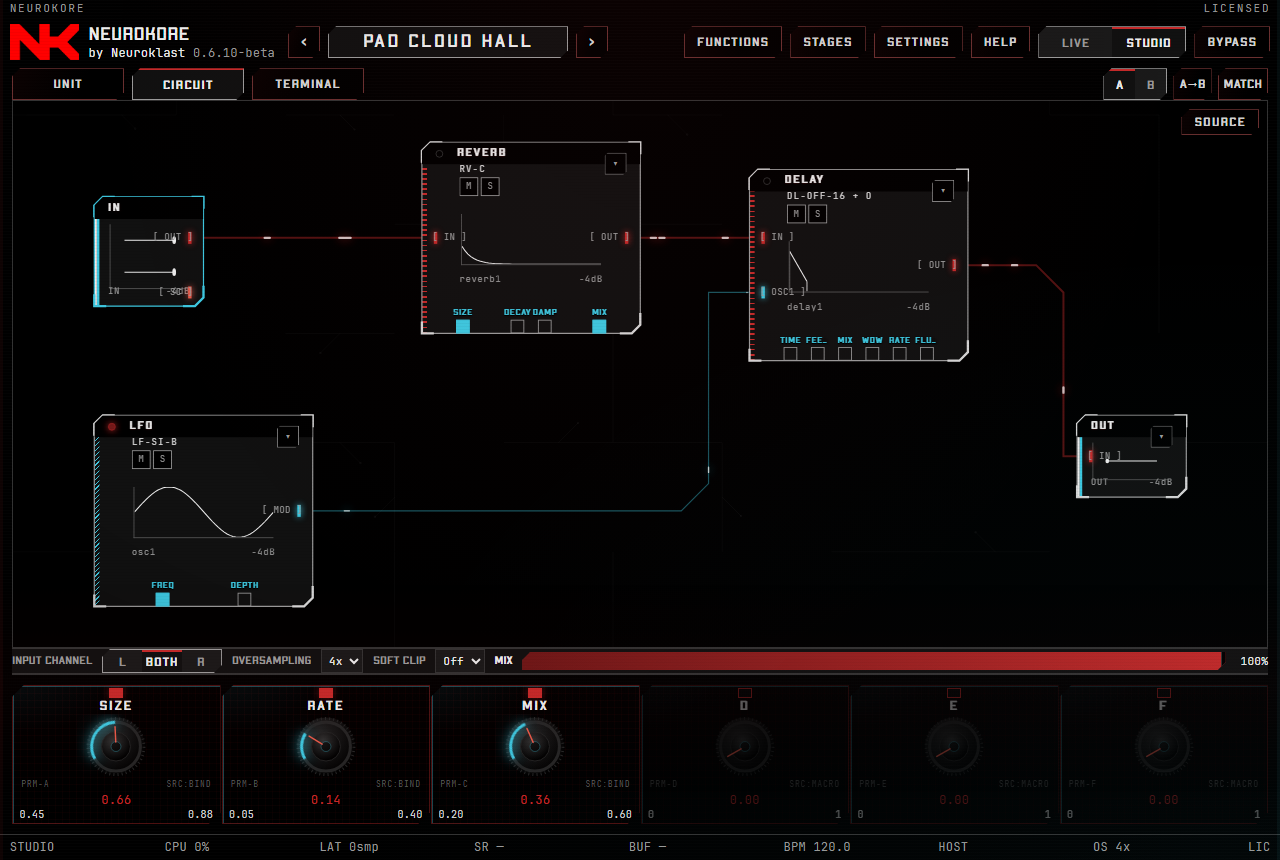
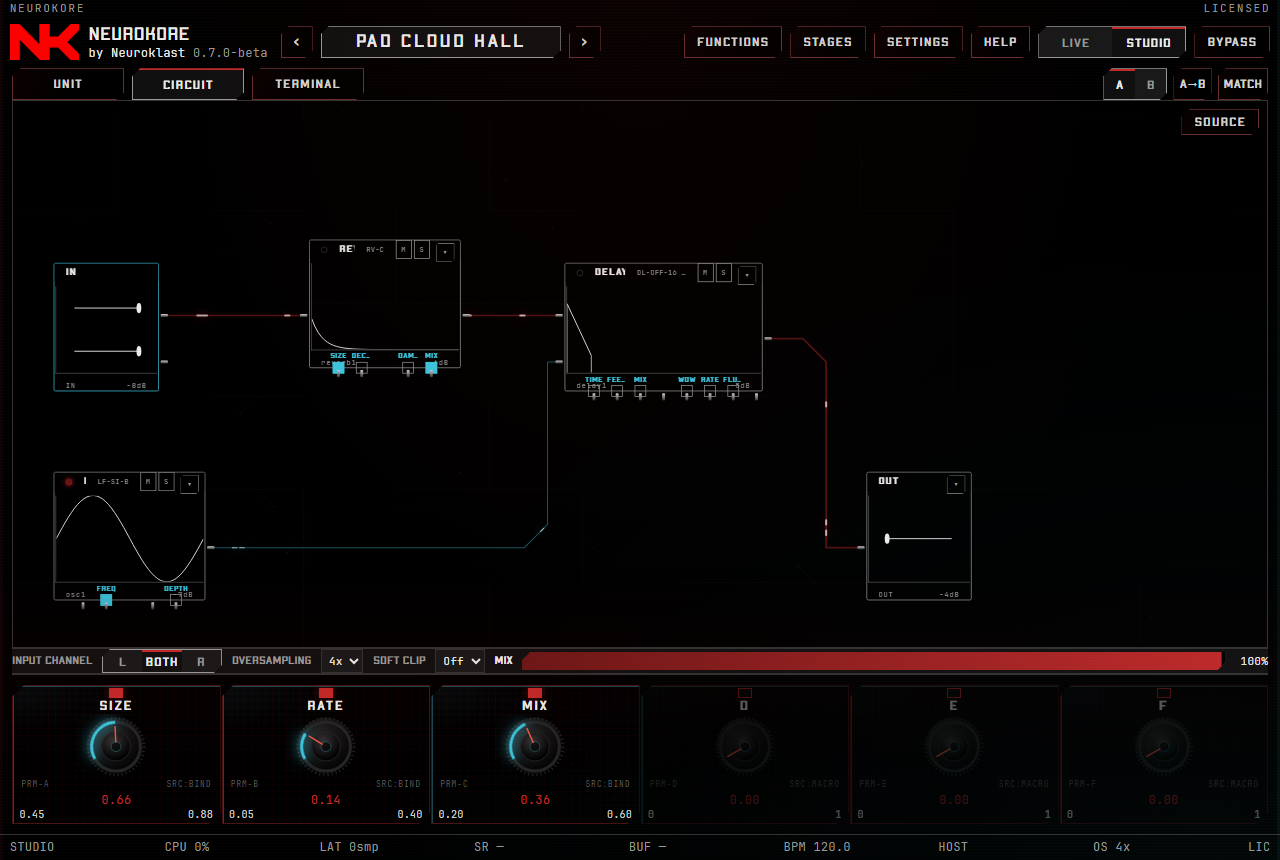
docs(circuit): record IC chips and compact wrap
Operator manual, agent contracts, and Signal Lab screenshots follow
the gunmetal IC geometry. Playwright measures unscaled chip boxes
and loads Split Authority by exact preset name.

Version stays 0.7.0-beta.

diff --git a/web/e2e/circuit-chip-zones.spec.ts b/web/e2e/circuit-chip-zones.spec.ts
@@ -37,6 +37,10 @@ async function boxOf(locator: ReturnType<Page["locator"]>): Promise<Box> {
   });
 }
 
+async function layoutSize(locator: ReturnType<Page["locator"]>): Promise<{ w: number; h: number }> {
+  return locator.evaluate((n) => ({ w: (n as HTMLElement).offsetWidth, h: (n as HTMLElement).offsetHeight }));
+}
+
 test.describe("circuit chip zones", () => {
   test("octaver mute, face, and port labels do not overlap", async ({ page }, info) => {
     test.skip(info.project.name !== "chromium-1x");
@@ -58,19 +62,41 @@ test.describe("circuit chip zones", () => {
     const msBox = await boxOf(ms);
     const faceBox = await boxOf(face);
     const bandBox = await boxOf(titleBand);
+    const chipSize = await layoutSize(chip);
+    const faceSize = await layoutSize(face);
+    expect(chipSize.w).toBeGreaterThanOrEqual(200);
+    expect(chipSize.h).toBeGreaterThanOrEqual(180);
+    expect(faceSize.w).toBeGreaterThanOrEqual(180);
+    expect(faceSize.h).toBeGreaterThanOrEqual(100);
     expect(overlap(msBox, faceBox), "mute/solo vs face").toBe(false);
     expect(contained(msBox, bandBox), "mute/solo inside title band").toBe(true);
+    await page.screenshot({ path: "test-results/circuit-ic-drone-low-bed.png", fullPage: true });
+
+    const pins = chip.locator(".nk-port");
+    const pinCount = await pins.count();
+    expect(pinCount).toBeGreaterThan(0);
+    const seen = new Set<string>();
+    for (let i = 0; i < pinCount; i += 1) {
+      const pin = await boxOf(pins.nth(i));
+      const key = `${Math.round(pin.x)}:${Math.round(pin.y)}`;
+      expect(seen.has(key), `pin ${i} collides at ${key}`).toBe(false);
+      seen.add(key);
+    }
 
     const caps = chip.locator(".nk-port-cap");
     const n = await caps.count();
     expect(n).toBeGreaterThan(0);
     for (let i = 0; i < n; i += 1) {
       const capEl = caps.nth(i);
+      const vis = await capEl.evaluate((el) => getComputedStyle(el).visibility);
+      if (vis === "hidden") {
+        continue;
+      }
       const cap = await boxOf(capEl);
       if (cap.w < 2 || cap.h < 2) {
         continue;
       }
-      const jack = await capEl.evaluate((n) => (n.parentElement?.getAttribute("data-port-id") ?? n.textContent ?? `${i}`));
+      const jack = await capEl.evaluate((el) => (el.parentElement?.getAttribute("data-port-id") ?? el.textContent ?? `${i}`));
       expect(overlap(cap, msBox), `${jack} vs mute/solo`).toBe(false);
       expect(overlap(cap, faceBox), `${jack} vs face`).toBe(false);
     }

diff --git a/web/e2e/signal-lab-chrome.spec.ts b/web/e2e/signal-lab-chrome.spec.ts
@@ -9,7 +9,7 @@ async function loadPreset(page: Page, name: string) {
   await page.locator(".nk-preset-now").click();
   await page.locator(".nk-preset-browser").waitFor();
   await page.getByPlaceholder("Search presets, tags, effects...").fill(name);
-  const row = page.locator(".nk-preset-row", { hasText: name });
+  const row = page.locator(`.nk-preset-row[data-name="${name}"]`);
   await expect(row).toBeVisible();
   await row.dblclick();
   await page.locator(".nk-preset-browser").waitFor({ state: "hidden" }).catch(() => undefined);
@@ -100,6 +100,19 @@ test.describe("signal lab shared module chrome", () => {
     await expect(hallReverb).toHaveAttribute("data-face", "reverb");
     await expect(hallReverb.locator("[data-glyph='decay']")).toBeVisible();
     await page.screenshot({ path: path.join(shotDir, "circuit-pad-cloud-hall.png"), fullPage: true });
+
+    await loadPreset(page, "Split Authority");
+    await page.locator("[data-node-id='xover1']").waitFor();
+    await waitLayoutIdle(page);
+    const xover = page.locator("[data-node-id='xover1']");
+    await expect(xover).toBeVisible();
+    const xoverBox = await xover.evaluate((n) => ({
+      w: (n as HTMLElement).offsetWidth,
+      h: (n as HTMLElement).offsetHeight,
+    }));
+    expect(xoverBox.w).toBeGreaterThanOrEqual(200);
+    expect(xoverBox.h).toBeGreaterThanOrEqual(200);
+    await page.screenshot({ path: path.join(shotDir, "circuit-split-authority.png"), fullPage: true });
   });
 
   test("delay LFO and dynamics faces paint calculated glyphs", async ({ page }, info) => {
@@ -264,7 +277,7 @@ test.describe("signal lab shared module chrome", () => {
     await clickChipHeader(page, filter);
     await expect(filter.locator(".nk-chip-typecode")).toHaveCSS("visibility", "visible");
     await expect(filter.locator(".nk-chip-foot")).toHaveCSS("visibility", "visible");
-    await expect(filter.locator(".nk-port-cap").first()).toHaveCSS("visibility", "visible");
+    await expect(filter.locator(".nk-port-cap").first()).toHaveCSS("visibility", "hidden");
     await expect(reverb.locator(".nk-chip-typecode")).toHaveCSS("visibility", "hidden");
     await expect(reverb.locator(".nk-port-cap").first()).toHaveCSS("visibility", "hidden");
   });

diff --git a/docs/manual/NEUROKORE.md b/docs/manual/NEUROKORE.md
@@ -97,7 +97,7 @@ Click the preset name. Categories stay on the left, names in the middle, details
 The board is the same sound as Unit and Terminal. **Source** opens a side panel with that chip’s definition (same chip id as the selection) and its real meters: peak and RMS from that chip’s own tap, with the signal source named. A drive chip has no waveform tap — the panel says so instead of drawing the plugin output. Clicking a chip does not start Edit. **Edit Source** opens the same editor as Terminal (caret and scroll survive **Open Full Terminal**); **Apply** compiles it; **Discard** restores the last saved graph. Drag the seam to resize Source (360–420 px beside the board, or 160–220 px when it sits under the board). Opening Source does not pan the board or rewrite cables. Factory **Pad Cloud Hall** is a long hall plus slow chorus; reverb decay is 0–1 (the engine’s hall time).
 
 Cables
-- Drag a chip by its body. Contacts sit on the left and right frame, equally spaced. Drag from an output (right) to an input (left).
+- Drag a chip by its body. Audio contacts sit on the left (in) and right (out) as metal pins; parameter and modulation contacts sit on the bottom. Drag from an output (right) to an input (left).
 - While you drag, the cable is a free curve and snaps to a contact from 30 px away. After you drop, the board etches a PCB path (right angles, 45° corners). A wrap to the next row rides the gap between rows, not around the whole board. Packets travel source → dest along that path. Alt+click a contact to cut. Dropping on a busy input replaces the old cable.
 - A stereo run is two parallel packet lanes (left cyan, right red) until a split block. After Mid/Side split the mid lane stays the main stroke and the side lane peels off at 45°. Beads sit on that channel’s real signal peaks. Speed follows RMS; brightness follows the peak. Speed is in real time (30 or 60 fps is the same travel). Below −60 dB the stream freezes. Pan the board and the tubes move with it, glow included. The tubes start when you open Circuit, not only after you resize the window. A clip (above 0 dBFS) flashes the tube and splits it red/cyan. The peak lamp in the title stays dark until that chip clips, then it glows red. A yellow outlined warning triangle (with a bang) and a dB reading sit just outside the output that actually clips. Send and bus tubes follow the input, because those chips are taps — they have no own meter.
 - Click an audio cable to insert a module on that exact connection when the resulting source → new block → destination routing can be verified. An unsupported branch shows an explanation and leaves the graph unchanged. Right-click empty board to add an unconnected parked module. Right-click a chip for Insert after / Inspect / Delete. Opening or closing that menu does not pan or zoom the board. A layout that finishes later leaves the view where you put it. The wheel over the Add list scrolls the list. Delete or Backspace removes the selected chip. Mute and solo sit in the title band and do not remove chips or reroute cables. Port labels stay on the rails; the function plot stays in its own well. Packets run source → dest (IN toward OUT) and never out the back of OUT. Click selects a chip and drag moves it. Double-click or use its chevron to open the animated Inspect overlay without resizing the board. Inspect TAP is Plugin input, Plugin output, or No waveform tap — a drive chip has no invented waveform. LEVEL is that chip’s own peak and RMS. A Circuit selection highlights the same block in Terminal; a Terminal caret on a block line selects that chip. The board does not pan for that. Middle mouse or Space + left-drag pans; the wheel zooms. Drag a knob’s bind jack onto a highlighted chip parameter to connect it. Time, delay, and LFO fields switch VALUE and NOTE (bars from 8/1 down to 1/16, only lengths that fit that field). OUT is the last chip, right of the hull.
@@ -110,13 +110,13 @@ IN and OUT
 - **OUT** is the mix back to the host. Named buses (a Send row) land on their own west mix jacks — `main`, then each bus — not a leftover `in`. Expand it (chevron or right-click Details) for **gain** (−24 to +12 dB). Gain is not a slider on the closed tile.
 
 Blocks
-- A closed chip is a shared frame: lamp, name, type code, mute/solo, instance-id footer. Idle plates sit on the surface colour so they lift off the board. Select or hover raises the plate; dragging a knob bind onto it opens the interaction well. Filter and EQ draw a calculated frequency response from type, cutoff/freq, resonance/Q, and EQ gain. Reverb draws a calculated decay envelope from size, decay, and mix (the engine clamps decay to 0.05–0.95). Delay draws echo taps from time, sync, feedback, and mix. LFO draws one cycle of its shape and depth (the header lamp still pulses at the live rate). Comp, gate, and limit draw a static input/output curve from threshold, ratio, knee, makeup, mix, ceiling, and range. Envelope draws a calculated attack/hold/release curve; the header lamp still fills with the live level. Octaver, pitch, and vocoder draw interval stems from mix, sub/up, semitones, or band count. Drive draws a transfer curve from a named shaper (softclip, tube, diode, hardclip, fold, bitcrush); unknown formulas stay a straight line. Those plots are not a live tap, a measured IR, or gain reduction. Routing draws a split/join map from its ports (width is two lanes). Phaser, flanger, and chorus draw one LFO cycle (chorus averages voices; flanger invert flips the sign). Cabinet draws dry/wet mix; the IR file name is the host slot when one is loaded. IN and OUT draw a jack schematic of their contacts. Utility draws gain and pan marks. Bound letters follow the live knob. Delay and LFO sync notes use the host tempo (120 BPM until the host reports one). EQ biquads use the host sample rate (48 kHz until the host reports one). Mixed formulas stay on the chip default. Zoomed far out, type codes, footers, and port labels hide except on the selected chip; the face plot stays a thick family glyph without the scale grid. Audio, modulator (LFO/env), and I/O families carry a west hatch so the job family is readable without reciting the title. Contacts are labelled `[ IN ]` `[ OUT ]` `[ MID ]` `[ SIDE ]`. The footer line is the instance id and that chip’s own tap: live dB when the signal is audible, still at or below −60 dBFS, and — when the chip has no meter. It is not a fake serial — it sits above the south parameter sockets. The chevron opens Inspect (every parameter, sized to the list). Time fields (seconds, milliseconds, hertz) switch VALUE and NOTE. NOTE writes the matching number at the current tempo. Dragging a knob over the chip opens the bind list; south labels hide while that list is open.
+- A closed chip is a gunmetal IC: lamp, name, type code, mute/solo, instance-id footer, and metal pins on the jack faces. Idle plates stay dark. Select or hover raises the plate; dragging a knob bind onto it opens the interaction well. Filter and EQ draw a calculated frequency response from type, cutoff/freq, resonance/Q, and EQ gain. Reverb draws a calculated decay envelope from size, decay, and mix (the engine clamps decay to 0.05–0.95). Delay draws echo taps from time, sync, feedback, and mix. LFO draws one cycle of its shape and depth (the header lamp still pulses at the live rate). Comp, gate, and limit draw a static input/output curve from threshold, ratio, knee, makeup, mix, ceiling, and range. Envelope draws a calculated attack/hold/release curve; the header lamp still fills with the live level. Octaver, pitch, and vocoder draw interval stems from mix, sub/up, semitones, or band count. Drive draws a transfer curve from a named shaper (softclip, tube, diode, hardclip, fold, bitcrush); unknown formulas stay a straight line. Those plots are not a live tap, a measured IR, or gain reduction. Routing draws a split/join map from its ports (width is two lanes). Phaser, flanger, and chorus draw one LFO cycle (chorus averages voices; flanger invert flips the sign). Cabinet draws dry/wet mix; the IR file name is the host slot when one is loaded. IN and OUT draw a jack schematic of their contacts. Utility draws gain and pan marks. Bound letters follow the live knob. Delay and LFO sync notes use the host tempo (120 BPM until the host reports one). EQ biquads use the host sample rate (48 kHz until the host reports one). Mixed formulas stay on the chip default. Zoomed far out, type codes and footers hide except on the selected chip; the face plot stays a thick family glyph without the scale grid. Contacts keep their full name on the tooltip and in Inspect (`[ IN ]` `[ OUT ]` `[ MID ]` `[ SIDE ]`). Pin labels stay off so they never collide. The footer line is the instance id and that chip’s own tap: live dB when the signal is audible, still at or below −60 dBFS, and — when the chip has no meter. It is not a fake serial — it sits above the south parameter sockets. The chevron opens Inspect (every parameter, sized to the list). Time fields (seconds, milliseconds, hertz) switch VALUE and NOTE. NOTE writes the matching number at the current tempo. Dragging a knob over the chip opens the bind list; south labels hide while that list is open.
 - Envelope: the lamp fills with the live level. Open it to pick **source** (`in` or `sidechain`) and **unit** (`lin` 0–1, or `db` for a compressor built from env + a formula stage).
 - Phaser is a real allpass cascade (rate, depth, center, feedback, mix, stages). Flanger is a short delay comb; invert is through-zero. Chorus is two to four slow voices on one longer delay (rate, depth, delay, voices, mix, width) — not the flanger, and not an amplitude wobble. Delay time follows a formula every sample (`time = 180 + osc1 * 8`). Wow 0 leaves that time still. Wow 1 wanders it by ±8 ms. Rate is that speed, default 0.65 Hz. Flutter 1 is ±2 ms at 8 Hz, on the same read. Bitcrush quantizes and then lowpasses. The `bitcrush()` formula does not. Tempo sync still slews, so a BPM jump does not click. Comp is one envelope: `detector` is peak or rms, `mix` is parallel (1 = compressed, 0 = dry), attack can go under 1 ms. Knee, makeup, and the detector high-pass are on the chip. De-esser reduces the sibilance band when that band is loud relative to the whole signal, not when a high-pass simply crosses a level. Listen plays that band. Transient is two envelopes on the level: fast minus slow is the hit. Attack turns that difference up or down. Sustain turns the body up or down. It is not a compressor. Utility is linear gain in dB, a balance pan (center leaves stereo alone), and a polarity flip. It does not saturate. The reverb tank runs at the host sample rate, not at 2×/4×/8× oversampling. Comp `lookahead` 0 is immediate. A lookahead delays the audio, the detector hears ahead, and the host gets that delay. Limit `lookahead` 0 is the fast peak mode. A lookahead (ms) delays the signal and is reported to the host like pitch and cabinet latency. The output true-peak ceiling stays the safety net. Filter **allpass** is one phaser stage if you want to stack them yourself. Filter resonance is 0.1 to 4. A moving cutoff holds it at 2.2 so the filter does not scream.
 - Loading a preset closes open details, lays the chain out left to right, and fits it above the mix bar. Cables meet the jacks of that layout; they do not keep the previous sound’s paths.
 
 Arrange and Compact
-- Right-click empty board → Arrange (one row, left to right) or Compact (wrap to the window, still left to right — never a snake). The wrap cable runs between the rows, not around the whole board. Compact keeps a Send bus on its own row under the main chain, parks OUT at the right, and lines each serial hop on a row so IN → processors → OUT is a straight run when the chain fits one row. A short factory chain (Drone Low Bed) fits one row in the Circuit pane: IN is the unique leftmost chip. DSP plates are 128 px wide, IN/OUT 96 px, with two grid cells of air. Ctrl/Cmd+Shift+A Arrange, Shift+A Compact. Loading a preset on Circuit shows a layout progress bar until Compact/Arrange finishes, so the board does not freeze on a half-laid graph. Loading a preset arranges, and wraps only if the chain is wider than the window. Dragging a chip stops auto-layout; Arrange or Compact still run when you ask.
+- Right-click empty board → Arrange (one row, left to right) or Compact (wrap to the window, still left to right — never a snake). The wrap cable runs between the rows, not around the whole board. Compact keeps a Send bus on its own row under the main chain, parks OUT at the right, and lines each serial hop on a row so IN → processors → OUT is a straight run when the chain fits one row. A short factory chain (Drone Low Bed) stays left to right and wraps if the IC plates are wider than the pane: IN is the unique top-left chip. DSP plates are about 224×192 px, IN/OUT 160×192 px, with four grid cells of neighbour air. Compact wraps rather than shrinking a chip or a gutter to force one row. Ctrl/Cmd+Shift+A Arrange, Shift+A Compact. Loading a preset on Circuit shows a layout progress bar until Compact/Arrange finishes, so the board does not freeze on a half-laid graph. Loading a preset arranges, and wraps only if the chain is wider than the window. Dragging a chip stops auto-layout; Arrange or Compact still run when you ask.
 
 Expand a chip for hidden parameters. The chip size does not jump.
 

diff --git a/docs/LESSONS_LEARNED.md b/docs/LESSONS_LEARNED.md
@@ -35,6 +35,7 @@ Session diary: `docs/archive/LESSONS_SESSION_LOG.md`. Add a rule here only if it
 
 ## Circuit
 
+- Closed Circuit nodes are IC plates. Size comes from header, pin pitch, and jack counts (`chipBox` / `chipMetrics`). Never shrink `CHIP_W` so a serial chain fits one row; wrap and pan/zoom instead. DOM body, SVG frame, ports, and layout share those numbers — no CSS `left: 4px` jack offset. Idle pins are metal; family is `data-kind` without a decorative hatch.
 - Terminal↔Circuit identity is `focusNodeId` plus a tokenizer source map (`tokenizeLine` on `id :` heads). Do not regex the script for caret mapping, do not `setDraftScript` / enter Edit from that highlight, and do not `fitCamera` on caret motion. Inspect TAP is `nodeProbe`: IN/OUT only; DSP chips are No waveform tap. Selected meters are `nodeMeter`: peak/RMS from that chip’s clips, never plugin.out under a DSP name. Send/bus do not steal IN. One patch document (active vs draft + revisions) and one selection (nodes, param, origin, intent) are the target. `draftEditing` lives in `astStore` so Terminal unmount cannot drop an unapplied draft. A preset/host echo must not replace that draft. Selection is `publishSelection` (nodes, param, origin, intent). Do not keep a second Circuit `useState` list or prefix-guess board ids. Caret on a comment does not invent a node. Intent `mark` does not pan or enter Edit. Source inspector geometry is `SOURCE_INSPECTOR` on the 1280×860 stage. Circuit Edit Source and Terminal Edit share `PATCH_MODEL_URI` plus caret/scroll; Monaco stays lazy and is not mounted in a hidden Circuit pane. Source resize is the seam handle (`inspectorWidthAt` / `inspectorHeightAt`); `setWidth` in the store is not enough without a hit target. Pane size from that split still must not `fitCamera`. Pad Cloud Hall Apply is a store walk (select, draft, Apply, Undo, CONFLICT), not a source-string test. Factory reverb `decay` must be 0–1; the engine clamps 0.05–0.95. Pane resize from that split must not `fitCamera` or Compact. Compile replies are keyed by `txId` then script; do not apply a stale fail onto a newer draft. Ast events carry the same `txId`/`baseRevision`; a late graph must not replace a newer one. A dirty draft stores `draftBaseRevision`. Preset/host that keeps it is `conflict`; Apply must not publish that draft onto the new active patch. setArg history coalesces one undo. Demo connect must `publishScript`, not a phantom `ast.edges` patch. `paintFocus` reads the selection set; a selected chip expands to incident edges and neighbors like hover. Family is `data-kind` (audio/mod/io) as a west hatch, not a title recolor. Source inspector `data-chip-id` is the primary selection. Circuit Edit Source and Terminal Edit share one Monaco model URI plus caret/scroll session. Monaco stays lazy; the inspector unmounts the editor while Circuit is hidden so it is not born inside display:none.
 - Circuit / Terminal Signal Laboratory contracts live in `docs/agents/signal-lab.md`. Chip faces are a `faceKindForType` registry, not a `switch` in `BoardChip`. Semantic zoom changes paint, not jack locals. `patchStructure(ast)` is the Terminal navigator model from the same hydrated board; do not store a second graph.
 - Circuit is headless (`boardStore` + DOM chips + one cable canvas). Do not wire AssembleView back to React Flow. Layout adapters use local `flowTypes`, not `@xyflow/react`. Camera pan/zoom writes the CSS matrix and canvas `camRef` in the pointer event; `setCamera` is pointerup / fit, never every move. Chip drag is the same: `chipDragRef` + CSS translate until pointerup. Hover/DoF is `data-focus` on the DOM, not `useState`. Cable geometry (chamfer/offset) is stamped; the frame loop only moves ink. Each lane integrates its own RMS px/sec (`streamAdvance`); do not share one `now` offset across tubes or reset phase on silence. Packets are an aperiodic train (`C(k) + travel`), not a repeating dash — a regular lattice aliases and looks reversed. Per-frame travel stays under half the smallest gap. Mute is a script overlay — do not replace the visual AST, do not flip `origin` to canvas, and do not hydrate the board (keepXy must keep stored routes). Native parse drops `# nk-ms` chips from JSON; a second echo of the same muted script is still overlay (`muteOverlayOnly` includes identical strings). Do not `resetMuteSolo` on host echo. Live/Studio must not `setSize` the editor — only a scale-percent change may. Shipping VST3 serves the embedded zip (`wantDiskWebAssets` off unless `NEUROKORE_WEB_DISK=1`). Do not `remove_directory` `Contents/resources` on Windows: that path is `Contents/Resources` (moduleinfo). `layoutBoard` posts to the existing layout worker; timeout **or onerror** falls back to `runLayout` — never reject Compact/Arrange. Do not stick `workerDead`. Circuit rAF does not run on Unit or a 0-size pane (`circuitPaintActive`). Bind dest jacks are `bindJackWorld`, not `getBoundingClientRect`.
@@ -55,7 +56,7 @@ Session diary: `docs/archive/LESSONS_SESSION_LOG.md`. Add a rule here only if it
 - Send is a tap, not a DSP source. Cables are IN → bus → send → chain. Never send back into the bus header. OUT mix-ins are `main` plus each named bus, never a leftover `in`. Compact packs each rail as its own row; do not DFS-snake a send graph. Plasma on send/bus follows IN — those chips have no tap.
 - User chip xy is owned by the board until Arrange or a new graph. A host echo is not a second owner.
 - Closed DSP plate is identity + one lamp. No TRG/barcode/grip/fake jacks. Expand overlay hides the south bind rail. Filter/EQ faces are calculated from ChipSpec args (SVF analog / EQ cookbook). Reverb faces use the engine RT60 proxy and clamp decay to 0.05–0.95; do not rewrite factory `decay = 2.6`. Formula args are not eval'd.
-- Compact wrap: `finishHalo` makes the cell around a chip solid. CHIP_AIR_Y (one cell) is not a cable. Row gap is WRAP_AIR = pad + rail + pad. Wrap edges ride `wrapRailRoute` on that rail, never A* around the hull.
+- Compact wrap: `finishHalo` makes the cell around a chip solid. CHIP_AIR_Y (one cell) is not a cable. Row gap is WRAP_AIR = pad + two-cell rail + pad. Wrap edges ride `wrapRailRoute` on that rail, never A* around the hull. Compact rows use fat air (`CHIP_AIR_X * 2`). A 2-cell gutter lands a forced-east stub on the next net's inbound runway. A* may leave north/south when east is solid or a foreign lane.
 - Circuit selection is `data-selected="on"` on `.nk-board-chip`. Delete/Backspace is plugin-owned only while that is set. Do not look for React Flow `.selected`. Empty-board deselect hit-tests `elementFromPoint`; pointer capture retargets `click` onto `.nk-board`, which is not a chip.
 - Stereo bus is one stored route, painted as two packet lanes ±4 px on the normal. Do not A* twice. The host tap is `{ rmsL, rmsR, peakL, peakR }`. RMS fills and drives the packets; peak flashes them; peak > 1.0 is the glitch. Split chips have no combined `out`. Mid/Side is not L/R: Mid keeps the main stroke, Side breaks 45° with a short dash. Port labels are `[ MID ]`. Microtext is `node.id` / typecode / peak dB — never a fake UUID.
 - Side jacks use fork pitch only when `(n-1)*FORK` fits **under the title and above the foot**. On a short IO tile that is one-cell pitch around the body midline. Do not park IN `out` on the hazard band or `sc` on the footer.

diff --git a/docs/agents/ui-ux.md b/docs/agents/ui-ux.md
@@ -8,7 +8,7 @@ Source of truth for Circuit is the **script**. The board is a headless graph (`b
 |---|---|
 | Chip drag | Live xy in `chipDragRef` + CSS translate; store + A* on `pointerup`, snap 32. Do not `moveNode` on pointermove |
 | Camera | Live `{tx,ty,scale}` in a ref + CSS matrix on `.nk-board-world` and the canvas `camRef`. Zustand commits on pointerup / after fit. Do not subscribe React to `camera` |
-| Ports | Flush contact on the frame; 24 px hit; 30 px magnet. Equal pitch, inside AABB |
+| Ports | IC pin on the AABB edge; gunmetal body inset `PIN_LEAD`. 24 px hit; 30 px magnet. Equal pitch; jack centres unique |
 | Hover focus | Pane carries `data-dof`, chips `data-focus`. Selected or hovered chip + its neighbours + their cables stay sharp, rest is soft. Zoom (scale ≠ 1) must not disable the plane |
 | Drag cable | Cubic bezier, east/west normals. No A* while the pointer is down |
 | After drop | Layout worker runs ELK + A*. Canvas paints cached `edge.route` polylines; rAF only advances the aperiodic packet train. Pause the canvas when Circuit is hidden |
@@ -36,10 +36,10 @@ LFO / env live on a row *below* IN, never on IN’s cell.
 | Side occupancy is per face | South param ports counted in west `count`, `graphToLayout.ins` including south, or a param jack overwriting a side socket that shares its id. 1-in-1-out side jacks off the box midline |
 | 16 px grid | Jack or chip origin not a multiple of 16 |
 | Chips do not overlap | `nodeRectsClash` after tidy |
-| ≥ 2 grids air beside, 1 grid above/below | Two chips closer than `CHIP_AIR_X` (64) when stacked in a row, or `CHIP_AIR_Y` (32) when stacked in a column |
+| ≥ 2 grids air beside, 1 grid above/below | Two chips closer than `CHIP_AIR_X` (64) when stacked in a row, or `CHIP_AIR_Y` (32) when stacked in a column. Compact *packs* at fat air (`CHIP_AIR_X * 2`) and wraps; it does not squeeze a 2-cell gutter to keep a row |
 | Dest stub is 32 px east, never a U-turn | Any audio path point with `x > dest jack x`, or a west-then-east jog at the IN jack |
 | IN/OUT body ≥ 96 so the jack is centered | IO chip shorter than 96, or a **single** side jack (OUT in, DSP in/out) not on that chip’s vertical midline. IN `out`/`sc` sit in the **body band** (below `TITLE_H`, above the foot), one-cell pitch around that midline — never in the hazard title or on the footer |
-| Chip paint ⊂ AABB | Handle centres, titles, captions, lamps, or a face widget sit outside `chipBox`. Closed IN/OUT have no range/select. Text ellipsizes in the label column. Closed DSP: no TRG/barcode/grip/fake jacks. Title, side rails, face well, and south param rail are exclusive (`chipZones`); mute/solo lives in the title band |
+| Chip paint ⊂ AABB | Handle centres, titles, captions, lamps, or a face widget sit outside `chipBox`. Closed IN/OUT have no range/select. Port names are tooltips, not truncated caps. Closed DSP: no TRG/barcode/grip/fake jacks. Title, pin rails, face well, and south foot are exclusive (`chipZones`); mute/solo lives in the title band |
 | IN sources east only | Any target jack on IN. `sc` is an east **output** (host sidechain). OUT targets west only; gain is overlay-only |
 | Camera fits the chain | After preset/Arrange the pane still shows the previous graph, or board `minZoom` ≠ `fitView` minZoom |
 | Overlay vs south rail | Open detail still paints south bind captions under the overlay |
@@ -63,7 +63,7 @@ LFO / env live on a row *below* IN, never on IN’s cell.
 - Overlays size to their content (`height: auto`). Wide explorers fill the host (`height: 100%`, `min-height: 0`) and never paint outside the window. The list pane scrolls. Inspect time fields (s / ms / Hz) switch VALUE and NOTE (8/1…1/16 in range).
 - One overlay at a time. Double-click a node → inspect **all** editable keys.
 - Circuit click selects and left-drag moves a chip without opening Inspect. The chevron, double-click, or Inspect context action opens the animated overlay without changing the board width. Ctrl/Cmd+A selects all, Ctrl/Cmd+Shift+A arranges. Empty-pane left-drag selects; middle mouse or Space+left-drag pans; the wheel zooms. Right-click opens context actions and never initiates a knob or port drag. A context menu is pane-local overlay: it never writes `camera`. A late layout reply does not `fitCamera` while that overlay is open or after the user has panned or zoomed. Drag a knob bind jack onto a highlighted chip parameter to connect it.
-- Circuit and Terminal share `publishSelection`. A Terminal caret on an `id :` head (tokenizer map) selects that chip; a Circuit selection highlights the matching Terminal lines. Do not enter Edit, rewrite the draft, or pan the camera for that highlight. Circuit Source is an optional 360–420 px inspector with a ≥26 px seam handle (`setWidth` / `setHeight` via `inspectorWidthAt` / `inspectorHeightAt`); chip click does not open Edit. Edit Source lazy-loads the same Monaco document as Terminal (`PATCH_MODEL_URI` + caret/scroll session) and unmounts it while Circuit is hidden. Inspector `data-chip-id` is the primary chip. Closed chips mark family with `data-kind` (audio / mod / io) as a hatch, not a title recolor. Inspect TAP is Plugin input / Plugin output / No waveform tap. Selected Source meters are `nodeMeter` (that chip’s clips, never plugin.out under a DSP name). DSP chips have no invented scope waveform. Compile and ast events share `txId`/`baseRevision`. A dirty draft whose `draftBaseRevision` is behind the active patch is CONFLICT; Apply does not publish it.
+- Circuit and Terminal share `publishSelection`. A Terminal caret on an `id :` head (tokenizer map) selects that chip; a Circuit selection highlights the matching Terminal lines. Do not enter Edit, rewrite the draft, or pan the camera for that highlight. Circuit Source is an optional 360–420 px inspector with a ≥26 px seam handle (`setWidth` / `setHeight` via `inspectorWidthAt` / `inspectorHeightAt`); chip click does not open Edit. Edit Source lazy-loads the same Monaco document as Terminal (`PATCH_MODEL_URI` + caret/scroll session) and unmounts it while Circuit is hidden. Inspector `data-chip-id` is the primary chip. Closed chips keep `data-kind` (audio / mod / io) as identity; idle plates stay dark gunmetal with no decorative hatch. Inspect TAP is Plugin input / Plugin output / No waveform tap. Selected Source meters are `nodeMeter` (that chip’s clips, never plugin.out under a DSP name). DSP chips have no invented scope waveform. Compile and ast events share `txId`/`baseRevision`. A dirty draft whose `draftBaseRevision` is behind the active patch is CONFLICT; Apply does not publish it.
 - Clicking an audio cable inserts only when the script sketch confirms the exact source → new → destination audio path; unsupported branches keep the script unchanged and explain why. Empty-pane Add explicitly parks the new module.
 - Help is the operator manual minus Install and Troubleshooting. Talk to the operator, not about the documentation. No “this file”, no “except Install because the plugin is already running”. Apex 400 titles, JetBrains body. Not a `<pre>` dump.
 - Knob right-click (Unit and Circuit) opens `OsContextMenu`: Name / Min / Max / Unit / Note / MIDI Learn. Never the browser menu.

diff --git a/docs/agents/signal-lab.md b/docs/agents/signal-lab.md
@@ -55,7 +55,7 @@ Signal order is the compiled graph, not source-line order.
 - Manual `xy` is user-owned. Selection, hover, Source resize, window resize, and tab change do not Arrange.
 - Compact / Arrange / new preset may pack.
 
-A short serial chain (factory Drone Low Bed) sits on one L→R row in the Circuit pane. DSP plates are 128 wide, IN/OUT 96, compact air is `CHIP_AIR_X` (64). Wrap only when that geometry overflows `viewW`. Not a per-preset special case.
+DSP plates are IC bodies (~224×192 baseline, grown from jack counts). IN/OUT are 160×192. Compact neighbour floor is `CHIP_AIR_X` (64); compact rows pack at fat air (`CHIP_AIR_X * 2`) and wrap when that overflows `viewW`. Never shrink a chip or a gutter so a chain fits one row.
 
 ## Terminal panes
 

diff --git a/docs/DEVELOPMENT_STATUS.md b/docs/DEVELOPMENT_STATUS.md
@@ -2,7 +2,11 @@
 
 **Stand:** 2026-10-19 (0.7.0-beta)  
 **Version:** 0.7.0-beta  
-**Branch:** `feat/foot-still`
+**Branch:** `feat/ic-chip`
+
+## Circuit IC chip geometry (2026-10-19)
+
+Closed nodes are gunmetal ICs, not 128 px compact plates. Shared metrics (`chipMetrics` / `chipBox` / `chipZones` / `portLayout`) size a normal DSP chip at 224×192 and grow from west/east/south jack counts. The body is inset `PIN_LEAD`; jack centres stay on the AABB. Idle pins are metal; hatch and truncated port caps are gone. Compact rows pack at fat air (`CHIP_AIR_X * 2`) and wrap; A* may leave north/south when the forced-east stub is a foreign runway. Version stays 0.7.0-beta.
 
 ## Circuit chip foot honesty (2026-10-19)
 
